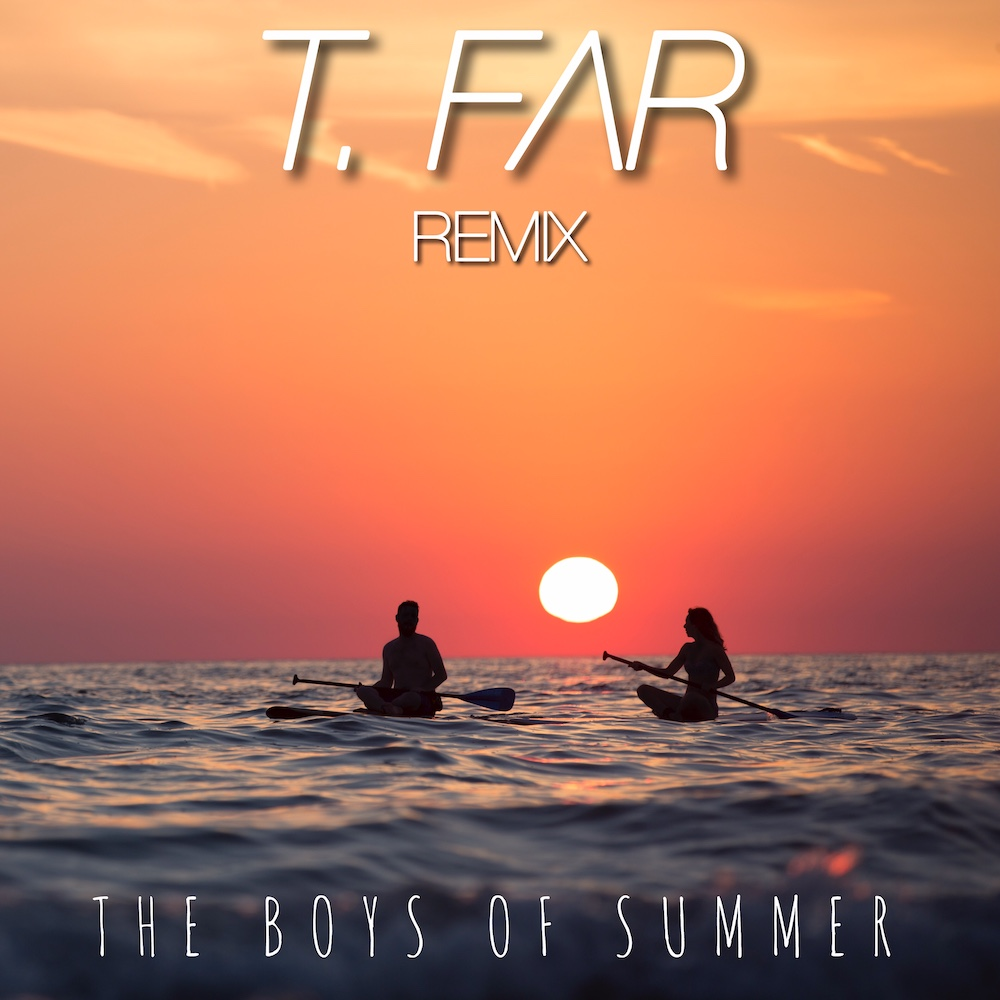
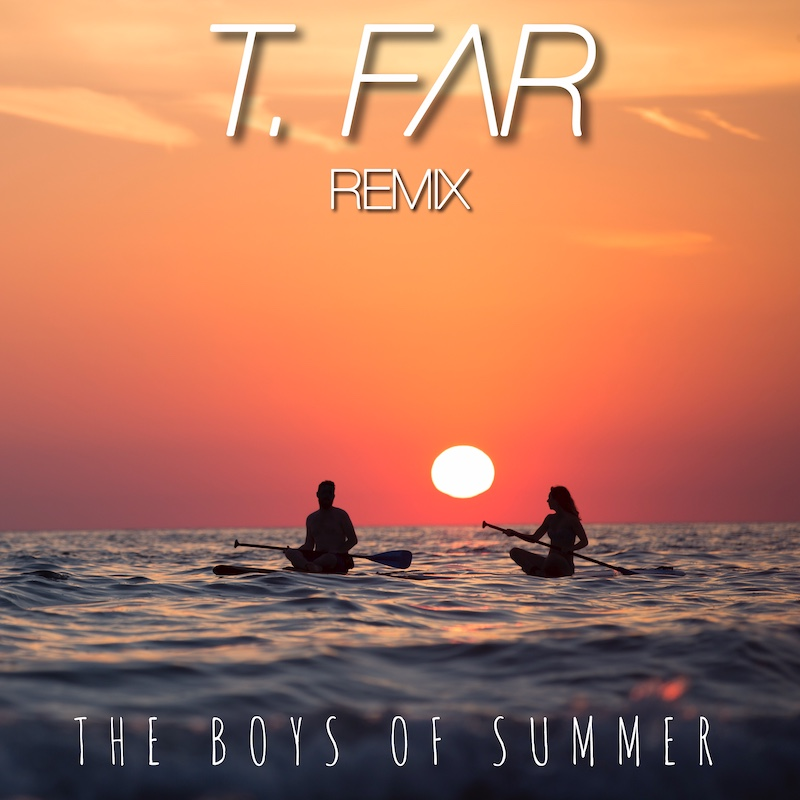
Replace images with JPG, Error page, fallback fonts. Closes #6

diff --git a/src/projects.html b/src/projects.html
@@ -60,9 +60,9 @@
       <section style="position:relative;" id="c-labs" class="fadeIn shortAnimateDelay">
         <div class="projSectionInfo">
           <div class="projectPhotos">
-            <img src="assets/germany.png" class="projectPhoto">
-            <img src="assets/c-labs_logo2.png" class="projectPhoto">
-            <img src="assets/professional.png" class="projectPhoto">
+            <img src="assets/germany.jpg" class="projectPhoto">
+            <img src="assets/c-labs_logo2.jpg" class="projectPhoto">
+            <img src="assets/professional.jpg" class="projectPhoto">
           </div>
           <h3 class="projSectionTitle">C-LABS</h3>
           <p class="projectsParagraph">
@@ -85,9 +85,9 @@
       <section style="position:relative;" class="fadeIn shortAnimateDelay">
         <div class="projSectionInfo">
           <div class="projectPhotos">
-            <img src="assets/inter_codes.png" class="projectPhoto">
-            <img src="assets/inter_codes_logo.png" class="projectPhoto">
-            <img src="assets/inter_codes2.png" class="projectPhoto">
+            <img src="assets/inter_codes.jpg" class="projectPhoto">
+            <img src="assets/inter_codes_logo.jpg" class="projectPhoto">
+            <img src="assets/inter_codes2.jpg" class="projectPhoto">
           </div>
           <h3 class="projSectionTitle">INTER.CODES</h3>
           <p class="projectsParagraph">
@@ -107,9 +107,9 @@
       <section style="position:relative;margin-bottom:50px" class="fadeIn shortAnimateDelay">
         <div class="projSectionInfo" id="musicProjectSection">
           <div class="projectPhotos">
-            <img src="assets/nerves.png" class="projectPhoto">
-            <img src="assets/guitar.png" class="projectPhoto">
-            <img src="assets/shades_of_green2.png" class="projectPhoto">
+            <img src="assets/nerves.jpg" class="projectPhoto">
+            <img src="assets/guitar.jpg" class="projectPhoto">
+            <img src="assets/shades_of_green2.jpg" class="projectPhoto">
           </div>
           <h3 class="projSectionTitle">MUSIC & VIDEO</h3>
           <p class="projectsParagraph">

diff --git a/src/music.html b/src/music.html
@@ -59,7 +59,7 @@
         <div class="containBlockWide">
           <div class="musicBox">
             <span class="songBox" id="firstSongBox">
-              <img class="albumArt" src="assets/shades_of_green.png">
+              <img class="albumArt" src="assets/shades_of_green.jpg">
               <div class="playButton">
                 <i class="fas fa-play playIcon" id="PuzzlePieces"></i>
                 <div class="circleSlider"></div>
@@ -74,7 +74,7 @@
               </div>
             </span>
             <span class="songBox">
-              <img class="albumArt" src="assets/shades_of_green.png">
+              <img class="albumArt" src="assets/shades_of_green.jpg">
               <div class="playButton">
                 <i class="fas fa-play playIcon" id="FlyAway"></i>
                 <div class="circleSlider"></div>
@@ -89,7 +89,7 @@
               </div>
             </span>
             <span class="songBox">
-              <img class="albumArt" src="assets/shades_of_green.png">
+              <img class="albumArt" src="assets/shades_of_green.jpg">
               <div class="playButton">
                 <i class="fas fa-play playIcon" id="Dawn"></i>
                 <div class="circleSlider"></div>

diff --git a/src/error.html b/src/error.html
@@ -1,0 +1,30 @@
+<!DOCTYPE html>
+<html>
+  <head>
+    <meta charset="utf-8">
+    <meta name="viewport" content="width=device-width,initial-scale=1">
+    <title>ERROR - Trevor Farthing</title>
+    <!-- build:css styles/styles.min.css -->
+    <link rel="stylesheet" href="styles/reset.css">
+    <link rel="stylesheet" href="styles/styles.css">
+    <!-- endbuild -->
+    <script src="https://kit.fontawesome.com/af35f2bda3.js" crossorigin="anonymous"></script>
+  </head>
+  <body class="blackBackground">
+    <div class="contactOuterBlock" style="height:100%">
+      <section class="mainContactBlock fadeIn">
+        <div class="contactHeading" style="margin-top:0px">
+          <h1 id="contactTitle">You might be lost...</h1>
+        </div>
+       <div class="containBlock">
+         <div class="contactPhotoBlock">
+           <img src="assets/phone.jpg" class="contactPhoto">
+         </div>
+       </div>
+       <div class="containBlockWide contactLinkBlock" style="padding-bottom:20px">
+         <h2 class="errorText"> Return to the main <a href="index.html" class="inlineLink">site</a>.</h2>
+       </div>
+      </section>
+    </div>
+  </body>
+</html>

diff --git a/src/aboutMe.html b/src/aboutMe.html
@@ -51,7 +51,7 @@
       </header>
       <div class="mainContent fadeIn">
         <span class="profileImage" id="responsiveImage">
-          <img src="assets/cutout.PNG" id="aboutImage" style="width: 100%">
+          <img src="assets/cutout-max.PNG" id="aboutImage" style="width: 100%">
         </span>
         <span class="aboutHeading">
           <h1 id="aboutHeadingTitle">Creatively solving problems and producing results.</h1>
@@ -77,7 +77,7 @@
           </div>
         </span>
         <span class="profileImage" id="desktopImage">
-          <img src="assets/cutout.PNG" id="aboutImage" style="width: 90%">
+          <img src="assets/cutout-max.PNG" id="aboutImage" style="width: 90%">
         </span>
         <h5 class="aboutSubHeading">Experience</h5>
         <div class="experienceList">

diff --git a/src/styles/styles.css b/src/styles/styles.css
@@ -6,7 +6,7 @@
   - Add GitHub link to contact page?
  */
 html, body {
-  font-family: khularegular;
+  font-family: khularegular, Helvetica;
   height: 100%;
 }
 
@@ -146,7 +146,7 @@ p {
 }
 h5 {
   font-size:1.2em;
-  font-family: khulabold;
+  font-family: khulabold, Helvetica;
 }
 i {
   font-style:italic;
@@ -813,6 +813,16 @@ SLIDE OUT MENU STYLES
 
 /*
 ************************
+ERROR PAGE
+************************
+*/
+.errorText {
+  text-align: center;
+  color: white;
+}
+
+/*
+************************
 MEDIA QUERIES
 ************************
 */
@@ -985,6 +995,9 @@ MEDIA QUERIES
   }
   .dropdownContent {
     font-size: 0.8em;
+  }
+  .errorText {
+    font-size: 2em;
   }
 }
 @media all and (max-width:600px) {

diff --git a/src/contact.html b/src/contact.html
@@ -55,7 +55,7 @@
         </div>
        <div class="containBlock">
          <div class="contactPhotoBlock">
-           <img src="assets/beach3.png" class="contactPhoto">
+           <img src="assets/beach3.jpg" class="contactPhoto">
          </div>
        </div>
        <div class="containBlockWide contactLinkBlock">
